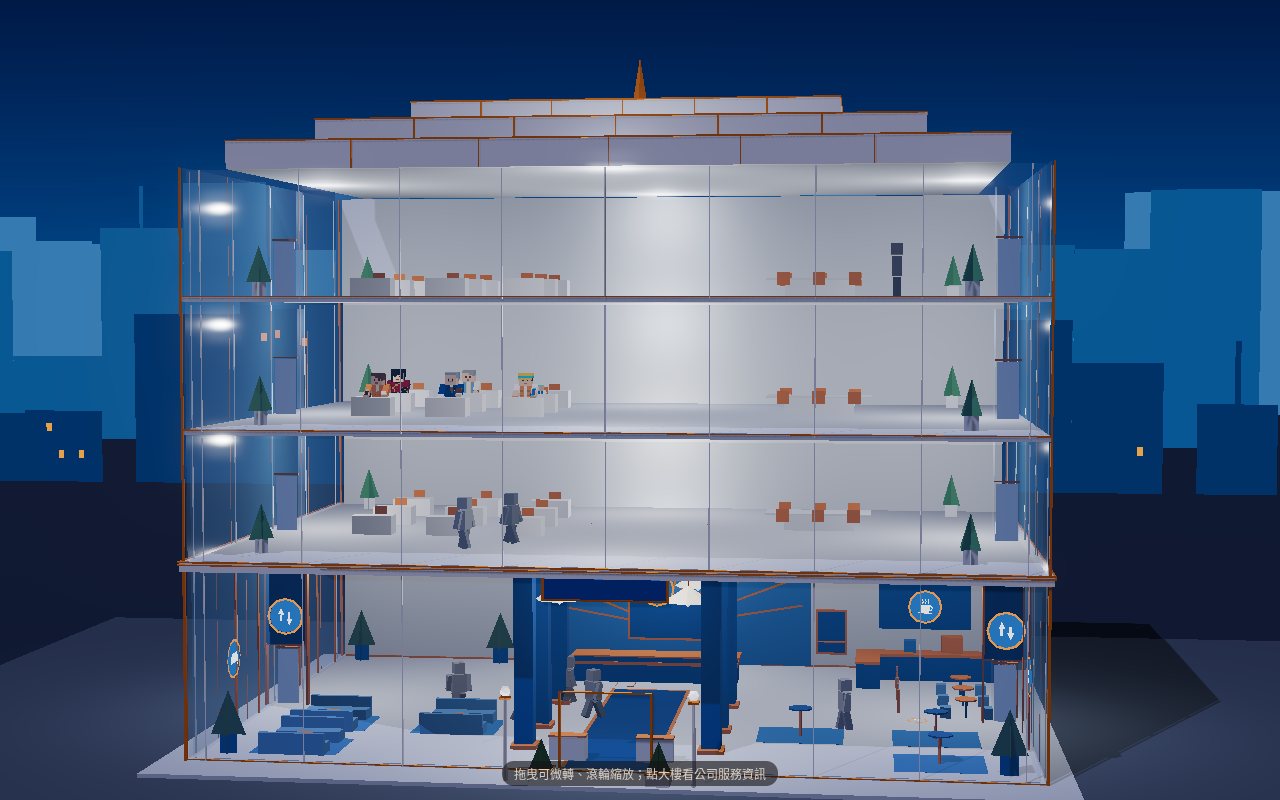
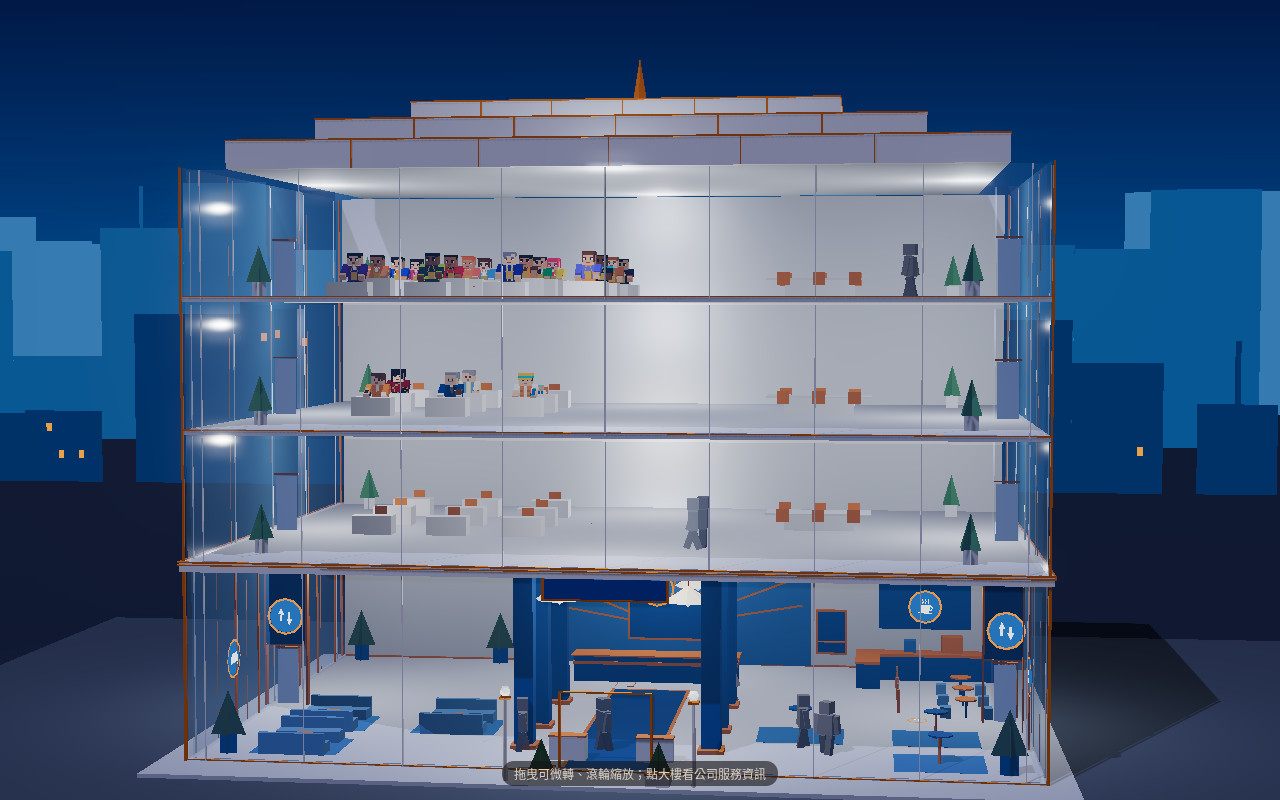
P007: 4F SRG team (16 external members, skins as submitted, system gold lanyard, 7 extra desks)

diff --git a/tools/tail_4f.js b/tools/tail_4f.js
@@ -1,0 +1,25 @@
+{ // 4F: SRG team (16 external members). Skins used exactly as submitted; gold member lanyard is system-added geometry.
+  const F4 = 'RF', y4 = floorY[F4];
+  const X4 = [-10.5, -7.5, -4.5, -1.5], Z4 = [-5.5, -2.2, 1.1, 4.4], desk4 = k => [X4[Math.floor(k / 4) % 4], Z4[k % 4]];
+  const extra = []; for (let k = 0; k < 16; k++) { const d = desk4(k); if (!(DESK_X.includes(d[0]) && DESK_Z.includes(d[1]))) extra.push(d); }
+  const dm = mat(0xFFFFFF), cm = DS(mat(0xF08A24)), o = new THREE.Object3D();
+  const chG = mergeGeometries([new THREE.PlaneGeometry(.5, .5).rotateX(-Math.PI / 2).translate(0, .5, 0), new THREE.PlaneGeometry(.5, .5).translate(0, .75, .25)].map(g => { g.deleteAttribute('uv'); return g; }));
+  [[B(1.6, .76, .8).translate(0, .38, 0), dm, 0, 0], [chG, cm, -.8, Math.PI]].forEach(([g, m, dz, ry]) => { const im = new THREE.InstancedMesh(g, m, extra.length);
+    extra.forEach((d, i) => { o.position.set(d[0], y4, d[1] + dz); o.rotation.set(0, ry, 0); o.updateMatrix(); im.setMatrixAt(i, o.matrix); }); im.castShadow = im.receiveShadow = true; world.add(im); });
+  const GOLD = new THREE.MeshLambertMaterial({ color: 0xD4A944 });
+  function lanyard(px) { const z = 2.35 * px, parts = [B(4 * px, 5 * px, .3 * px).translate(0, 5.5 * px, z)];
+    [-1, 1].forEach(s => { const c = B(.5 * px, 4.6 * px, .25 * px); c.rotateZ(s * .35); c.translate(s * 1.6 * px, 10 * px, z); parts.push(c); });
+    return mergeGeometries(parts.map(g => { g.deleteAttribute('uv'); return g; })); }
+  const SIT = { '活潑': [8, 20], '專注': [30, 60], '悠閒': [15, 35] };
+  const RES4 = [];
+  function add4(r) { RES4.forEach(p => { p.tag.remove(); scene.remove(p.g); }); RES4.length = 0;
+    ((r && r.residents) || []).slice(0, 16).forEach(a => { if (!a || !a.name || !/^srg_\d\d$/.test(a.skin || '')) return; SKINS[a.skin] = 'skins4f/' + a.skin + '.png';
+      const d = desk4(+a.desk || 0), st = SIT[a.persona] || SIT['專注'];
+      const p = { res: true, fid: F4, sc: 1, ph: Math.random() * 6, home: [d[0], d[1] - .8], x: d[0], z: d[1] - .8, ry: 0, y: y4 + T, seat: 1, sitT: rnd(st[0], st[1]), to: null, pause: 0 };
+      p.g = buildBlock(a.skin, 1); if (!p.g) return; const ly = new THREE.Mesh(lanyard(p.g.userData.px), GOLD); p.g.userData.rig.torso.add(ly);
+      const tag = document.createElement('div'); tag.className = 'ntag'; tag.textContent = String(a.name).slice(0, 20); box.appendChild(tag); p.tag = tag; RES4.push(p); });
+    RES.push(...RES4); }
+  const _sr = setRoster; setRoster = r => { for (let i = RES.length - 1; i >= 0; i--) if (RES4.includes(RES[i])) RES.splice(i, 1); _sr(r); RES.push(...RES4); };
+  fetch('roster_4f.json', { cache: 'no-store' }).then(x => x.ok ? x.json() : null).then(r => { if (r) { for (let i = RES.length - 1; i >= 0; i--) if (RES4.includes(RES[i])) RES.splice(i, 1); add4(r); people(0, 0); document.title = 'STATS=' + JSON.stringify(stats()) + ' R4=' + RES4.length; } }).catch(() => {});
+}
+if (SHOT === 'floor4') { const y = floorY['RF']; controls.minDistance = 1; tweenT = 1; target.set(-6, y + 1.1, -.5); camPos.set(-5, y + 4.2, 17.5); camera.position.copy(camPos); controls.target.copy(target); }
